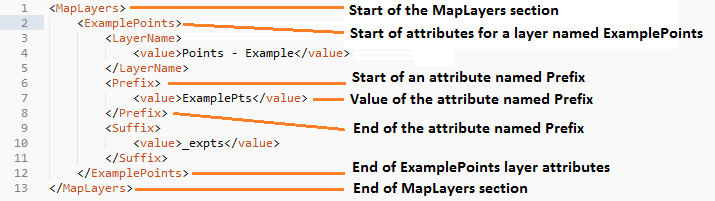
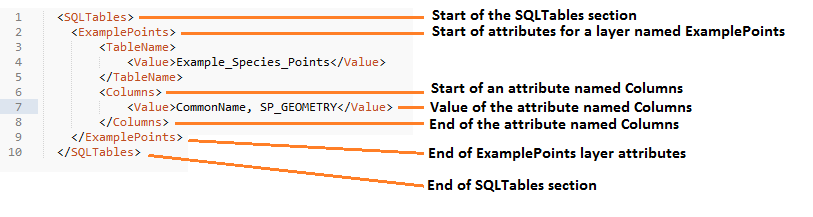
Some changes to setup document

diff --git a/setup/setup.rst b/setup/setup.rst
@@ -2,7 +2,7 @@
 Setting up the tool
 *******************
 
-Before the Data Searches Tool will function, it needs to be installed and configured. It is recommended that the configuration is carried out first, although the steps are interchangeable for the ArcGIS implementation. 
+Before the Data Extractor Tool will function, it needs to be installed and configured. It is recommended that the configuration is carried out first.
 
 .. index::
 	single: Configuring the tool
@@ -10,137 +10,111 @@ Before the Data Searches Tool will function, it needs to be installed and config
 Configuring the tool
 ====================
 
-The configuration is stored in an XML file called 'DataSearches.xml', and there are some differences in the contents of this file between the MapInfo and the ArcGIS implementations of the tool. Please ensure that you are using the correct XML file, examples of both of which can be found in the :doc:`appendix <../appendix/appendix>`. Attributes and settings are presented as nodes (beginning with a start node, e.g. ``<example>``, and finishing with an end note, e.g. ``<\example>``), with the value for the setting held between the ``<value>`` and ``<\value>`` tag. 
+The configuration is stored in an XML file called 'DataExtractor.xml', an example of which can be found in the :doc:`appendix <../appendix/appendix>`. Attributes and settings are presented as nodes (beginning with a start node, e.g. ``<example>``, and finishing with an end note, e.g. ``<\example>``), with the value for the setting held between the ``<value>`` and ``<\value>`` tag. 
 
 .. note:: 
-	The name of the configuration file must be 'DataSearches.xml'. The tool will not load if a different name is used.
+	The name of the configuration file must be 'DataExtractor.xml'. The tool will not load if a different name is used.
 
-The XML file can be edited in a text editor such as Notepad or Wordpad, or using a more feature rich XML editor such as as `Sublime Text <https://www.sublimetext.com/3>`_. The configuration file is split into two sections: a section containing general attributes of the searches, and a section that deals with the way each data layer should be handled. This structure is the same for both implementations of the tool. 
+The XML file can be edited in a text editor such as Notepad or Wordpad, or using a more feature rich XML editor such as as `Sublime Text <https://www.sublimetext.com/3>`_. The configuration file is split into three sections: a section containing general attributes of the searches, and a section that deals with the way each data layer should be handled, split into SQL Server layers and MapInfo layers. 
 
 .. note::
-	It is important that the structure of the file is maintained as it is presented in the :doc:`appendix <../appendix/appendix>`. Any changes to the structure may result in the Data Searches Tool not loading, or not working as expected.
+	It is important that the structure of the file is maintained as it is presented in the :doc:`appendix <../appendix/appendix>`. Any changes to the structure may result in the Data Extractor Tool not loading, or not working as expected.
 
 Once editing has been completed and the edits have been saved, it is recommended that the configuration file is opened using an internet browser such as Internet Explorer which will help highlight any editing errors – only if the structure of the file is valid will the whole file be displayed in the internet browser.
 
 .. note::
-	It is recommended that the configuration file is kept in a central (network) location, so that all data searches use the same setup. In case of the MapInfo implementation of the tool, it is essential that the configuration file is kept in the same folder as the compiled version of the tool.
+	It is recommended that the configuration file is kept in a central (network) location, so that all data searches use the same setup. Additionally, it is essential that the configuration file is kept in the same folder as the compiled version of the tool.
 
 .. index::
-	single: Setup for ArcGIS
+	single: Setting up the XML file
 
 
-Setup for ArcGIS
-----------------
+Setting up the XML file
+-----------------------
 
 .. index::
-	single: General attributes for ArcGIS
+	single: General attributes
 
 
 **General attributes**
 
-The first section of the configuration file deals with a series of general attributes for the Data Searches tool. These general nodes specify where files are kept, how output files should be named and other overall settings. Details on these attributes and their expected values are given below. The list follows the order within which the attributes are found in the configuration file. This version of the configuration details is valid for version 1.2 of the Data Searches Tool.
+The first section of the configuration file deals with a series of general attributes for the Data Extractor tool. These general nodes specify where files are kept, how output files should be named and other overall settings. Details on these attributes and their expected values are given below. The list follows the order within which the attributes are found in the configuration file. This version of the configuration details is valid for version 1.5.11 of the Data Extractor Tool.
 
-.. note::
-	The enquiry reference takes the form 'LERCName/Year/EnquiryNumber' (e.g. 'Example/2016/001'). Within the configuration file, it is possible to use all or parts of this reference for naming files and folders. The following options are available:
+_`LogFilePath` 	
+	The folder to be used for storing log files. This folder must already exist.
 
-	- ``%ref%`` uses the full enquiry reference.
-	- ``%shortref%`` uses the numeric part of the reference (e.g. '2016/001').
-	- ``%subref%`` uses the Enquiry Number (e.g. '001').
-	- ``%sitename%`` uses the name of the site (e.g. 'Example site').
+_`FileDSN`
+	The location of the file DSN which specifies the connection to the SQL database.
 
+_`DefaultPath`
+	The folder below which all partner folders will be created, and where extracts will be stored.
 
-_`Database` 	
-	The path to the Access database that contains the details of all search requests. This must be the full path including the ``.mdb`` extension. The database must have a table called 'Enquiries' that contains, at the very least, the search reference and the site name.
+_`DatabaseSchema`
+	The schema used in the SQL database (usually dbo).
 
-_`RefColumn`
-	The name of the column in the Enquiries table within the Access database that contains the search reference. The name must be given without any brackets. The search reference must follow the format 'LERCName/Year/EnquiryNumber'.
+_`TableListSQL`
+	The SQL statement that is used to return the list of SQL tables which should be included in the user interface for selection by the user.
 
-_`SiteColumn`
-	The name of the column in the Enquiries table within the Access database, that contains the site name. The name must ge given without any brackets.
-
-_`RepChar`
-	The character(s) used to replace any special characters in file or folder names. 'Special' characters are any of the following: ``\, %,$, :, *, /, ?, <, >, |, ~, £, .``. The replacement character can itself not be a special character.
-
-_`LayerFolder`
-	The folder where layer files (``.lyr``) are kept. These files are used to symbolise the GIS data layers that are exported during processing.
-
-_`SaveRootDir`
-	The folder within which all output folders will be created.
+_`PartnerTable`
+	The name of the partner GIS layer in SQL Server used to select the records. The tool expects a MapInfo table of the same name to be present in the map view, which can be added manually by connecting to the the `FileDSN`_ and adding the boundary dataset to the workspace.
  
-_`SaveFolder`
-	The name of the folder that will be created for each search. The keywords ``%ref%``, ``%shortref%``, ``%subref%``and ``%sitename%`` are allowed.
+_`PartnerColumn`
+	The column in the `PartnerTable`_ containing the partner name, which is passed to SQL Server by the tool to use as the partner's boundary for selecting the records.
 
-_`GISFolder`
-	The name of the folder where all data generated by the Data Searches Tool will be stored. This folder will be created in the `SaveFolder`_. The keywords ``%ref%``, ``%shortref%``, ``%subref%`` and ``%sitename%`` are allowed.
+_`ShortColumn`
+	The name of the column in the partner GIS layer containing the abbreviated name passed to SQL Server by the tool to use as the sub-folder name for the destination of extracted records. The subfolder is created in the `DefaultPath`_ during extraction if it does not already exist.
 
-_`LogFileName`
-	The name of the log file that will be created during processing. TThe keywords ``%ref%``, ``%shortref%``, ``%subref%``and ``%sitename%`` are allowed.
+_`NotesColumn`
+	The name of the column in the partner GIS layer containing any notes text relating to the partner.
 
-_`DefaultClearLogFile`
-	Yes/No attribute, defining whether the check box for 'Clear Log File?' on the interface should be set to checked (``yes``) or unchecked (``no``) when the form is opened.
+_`ActiveColumn`
+	The name of the column in the partner GIS layer containing the Y/N flag to indicate if the partner is currently active.  Only active partners will available for processing. The values in this column should be 'Y' or 'N'.
 
-_`DefaultBufferSize`
-	The default buffer size that will appear in the 'Buffer Size' text box when the form is opened.
+_`FormatColumn`
+	The name of the column in the partner GIS layer containing the GIS format required for the output records. The values in the column should be ``Shp``, ``Tab`` or ``Both``.
 
-_`BufferUnitOptions`
-	The options for buffer units that will be shown in the 'Buffer Unit' dropdown list. It is not recommended that these are changed. However, details of how any changes should be formatted are in the comments for this attribute within the XML file.
+_`ExportColumn`
+	The name of the column in the partner GIS layer indicating whether an export should also be created as a CSV file. The values in this column should be 'Y' or 'N'.
 
-_`DefaultBufferUnit`
-	The buffer unit that should be shown by default in the 'Buffer Unit' dropdown list. This attribute is the index number of the unit in the dropdown list, with 1 being the first option.
+_`FilesColumn`
+	The name of the column in the partner GIS layer indicating which map layers should be extracted for each partner. The entry in this column should be a comma-delimited list with no spaces, of the names of the layers (as given in the XML file [REF]) that should be included for each partner.
 
-_`BufferLayerName`
-	The name of the layer file (kept in the `LayerFolder`_) which will be used to symbolise the buffer layer. Must include the ``.lyr`` extension.
+_`TagsColumn`
+	The name of the column in the partner GIS layer indicating which survey tags, if any, should be included in the export. The survey tags should be a comma-delimited list with no spaces.
 
-_`SearchLayer`
-	The name of the data searches GIS layer in the interface. There may be either a single search layer (of either points, polygons or lines) of this name, or there may be multiple search layers present (e.g. one of each format) in which case their names should begin with the SearchLayer entry. See :numref:`figArcGISUI` for an example. In the case of this example, the entry for this node was ``SearchSites`` and the `SearchLayerExtensions`_ entry (see next attribute) was ``_point;_poly;_line``. 
+_`SelectTypeOptions`
+	The option list for the selection types, to be included in the 'Selection Type' dropdown box on the interface. This attribute should not be changed. The options are ``Spatial Only`` (records are purely selected on whether they are inside or outside the partner boundary), ``Survey tags only`` (records are purely selected on the survey tags included in the `TagsColumn`_), and ``Spatial and Survey Tags``, where both a spatial intersection and any records with the relevant survey tags are included in the extraction.
 
-_`SearchLayerExtensions`
-	If multiple search layers are used, this node should contain a list of the extensions for each layer, delimited by semicolons (e.g. in the example used above, the entry was ``_point;_poly;_line``). If only a single layer is used this attribute should be left blank.
+_`DefaultSelectType`
+	The buffer unit that should be shown by default in the 'Selection Type' dropdown list. This attribute is the index number of the selection type options in the dropdown list, with 1 being the first option.
 
-_`SearchColumn`
-	The name of the column in the search layer(s) that holds the search reference.
+_`RecMax`
+	The maximum number of records what will be extracted in any one partner extract.
 
-_`AggregateColumns`
-	A list, delimited by semicolons, of the fields in the search layer that should be used to dissolve the buffer during processing. This attribute can be used in cases where the search sites are multi-part features which may create a number of overlapping buffers rather than one continuous one.
+_`DefaultZip`
+	The default value for zipping the extract files. This attribute should be set to ``Yes`` or ``No``.
 
-_`AddSelectedLayersOptions`
-	The options that should be shown in the 'Add Selected layers to Map' dropdown list. These options should not be changed.
+_`ConfidentialClause`
+	The SQL criteria for excluding any confidential surveys.
 
-_`DefaultAddSelectedLayers`
-	The default option for adding the selected layers that should be shown when the form opens. This attribute is the index number of the item in the 'Add Selected Layers to Map' dropdown list, with 1 being the first option. If no value is entered the list box will be hidden and no layers will be added to the map.
+_`DefaultConfidential`
+	Yes/No attribute, defining whether the check box for 'Extract confidential surveys?' will be set to checked (``Yes``) or unchecked (``No``) when the form is opened. 
 
-_`OverwriteLabelOptions`
-	The options that should be shown in the 'Overwrite Map Labels' dropdown list. These options should not be changed.
+_`UTPath`
+	The path to the Universal Translator program. The path will usually be ``C:\Program Files (x86)\MapInfo\Professional\UT`` (64 bit operating system) or ``C:\Program Files\MapInfo\Professional\UT`` (32 bit operating system) but it is dependent on the location of the MapInfo installation directory.
 
-_`DefaultOverwriteLabels`
-	The default option for the 'Overwrite Map Labels' dropdown that should be shown when the form opens. This attribute is the index number of the item in the dropdown list, with 1 being the first option. If no value is entered the list box will be hidden and labels will not be overwritten.
+_`UTCommand`
+	he command to run the Universal Translator program. Unless the program has been renamed, this should be set to ``Imut.exe``.
 
 _`CombinedSitesTableOptions`
 	The options that should be shown in the 'Create Combined Sites Table' dropdown list. These options should not be changed.
 
-_`DefaultCombinedSitesTable`
-	The default option for the 'Create Combined Sites Table' dropdown that should be shown when the form opens. This attribute is the index number of the item in the dropdown list, with 1 being the first option. If no value is entered the list box will be hidden and no combined sites table will be created.
-
-_`CombinedSitesTable`
-	This section defines the combined sites table. It has the following entries:
-
-	Columns
-		A comma-delimited list of the column headings that the combined sites table should have.
-	Suffix
-		An entry of what the suffix of the file name should be. The name of the combined sites table is given by ``subref_Suffix.Format``, e.g. ``001_sites.csv`` where the suffix is ``sites`` and the format is ``csv``. The use of the ``subref`` keyword is predefined in this case and cannot be changed.
-	Format
-		The format that the combined sites table should have. Choose from ``csv`` or ``txt``.
-
-
 .. index::
-	single: Map layer attributes for ArcGIS
+	single: SQL table attributes
 
-**Map layer attributes**
+**SQL table attributes**
 
-All map layer attributes are found within the ``<MapLayers>`` node. For each data layer that can be included in the searches, a new child node is created that has the name of the layer (e.g. ``<SSSIs>``). This name is name of the layer as it will be shown in the tool menu, and can be different from the layer name as it is shown in the ArcGIS table of contents (which will be set in a subsequent child node). A simple example of a map layer definition with limited attributes is shown in :numref:`figArcGISUI`. 
-
-.. note::
-	If you wish to display spaces in any layer names in the tool menu use an underscore (``_``) for each space in the node name for the layer. XML does not allow spaces in node names, but the tool will translate these underscores into spaces when the form is opened.
+The attributes for any SQL tables to be included in the Data Extractor Tool menu is found within the ``<SQLTables>`` node. For each data layer that can be included in the searches, a new child node is created that has the name of the layer (e.g. ``<AllSpecies>``). This is the same name as should be used in the list of map layers in the `FilesColumn`_ in the partner boundary layer. The actual name of the layer as it is shown in the user interface may be different and is kept in a subsequent child node. A simple example of an SQL layer definition with limited attributes is shown in :numref:`figXMLExample`.
 
 .. _figXMLExample:
 
@@ -149,103 +123,45 @@ All map layer attributes are found within the ``<MapLayers>`` node. For each dat
 
 	A simplified example of how data layer attributes are stored in the configuration file. 
 
-The attributes that are required for each map layer are as follows:
+The attributes that are required for each SQL table are as follows:
 
-_`LayerName`
-	The name of the layer as it is shown in the GIS interface. Characters that cannot be included in the layer name are ``/`` and ``&`` as they will cause the tool to fail. The characters ``-``, ``_``, ``+`` and ``\`` are permitted.
-
-_`Prefix`
-	The prefix will be used to start the name of any GIS layer that is exported from this data layer during the search. The naming followed for exported GIS layers is ``Prefix_subref.shp``, e.g. ``SSSIs_001.shp``. The use of the ``subref`` keyword in this case is predefined and cannot be changed.
-
-_`Suffix`
-	The suffix will be used to finish the name of any tabular file that is exported from this data layer during the search. The naming followed for exported tabular data is ``subref_Suffix.Format``, e.g. ``0001_SSSIs.csv``. The use of the ``subref`` keyword in this case is predefined and cannot be changed.
+_`TableName`
+	The name of the layer as it is held in the SQL database. 
 
 _`Columns`
-	A comma-separated list of columns that should be included in the tabular data exported from this data layer during the search. The column names are case sensitive and should match the column names in the source layer. If results from any aggregate functions are to be included, they should follow the naming convention that ArcGIS employs for statistics fields, as follows:
+	A comma-separated list of columns that should be included in the data exported from this data layer during the extraction. The column names are case sensitive and should match the column names in the source table. 
 
-	- Column names are up to 10 characters long and are case sensitive.
-	- Statistics column names are made up of the statistic requested (e.g. COUNT, SUM, MEAN, FIRST, etc.), the underscore character (``_``), and the name of the column to which the statistic applies (e.g. ``COUNT_Year``). Names longer than 10 characters are abbreviated. 
-	- If, due to abbreviation, two output columns would be given the same name, ArcGIS will automatically add a count of ``_1`` to the column name. Where the column name is nine or ten characters long, it will replace the last one or two characters of the second column with ``_1``, always ensuring the length of the column name does not exceed ten characters. 
-	- Numbering for any subsequent columns with the same name will follow this format adding one to each column number until this number reaches 9. Any subsequent columns will be numbered ``_10``, ``_11`` etc, so adding or replacing up to three rather than two characters in the column name. Again in all cases the new column name will be ten characters long or less.
+_`Clauses`
+	Any SQL clause that should be used to select the data from this table for export. This clause could, for example, ensure records are only included that have been entered after a certain date, are verified or are presence (not absence) records.
 
-.. tip::
-	If you are unsure what the output column names will be from an aggregation operation, run the Dissolve tool (this resides in the ArcGIS toolbox, under Data Management Tools => Generalisation) on a sample of your data, and include the statistics columns with the relevant statistic types as you intend to use them in the Data Searches tool. The output will contain the column names as they will be generated by the Data Searches tool, since it uses the same process.
+_`Symbology`
+	The symbology definition for extracts from this table. Multiple symbols can be specified for use in the legend using clauses. Each symbol is specified between ``<Symbol>`` and ``</Symbol>`` tags and is defined by the following child nodes:
 
-
-_`GroupColumns`
-	A comma-separated list of the name(s) of any column(s) that should be used for grouping the outputs from the search on this layer. The column names are case sensitive and should match the column names in the source layer.
-
-_`StatisticsColumns`
-	If `GroupColumns`_ are specified, statistics may be requested from any columns in the input layer. The format of this attribute is as follows: ``ColumnName1;STATISTIC$ColumnName2;STATISTIC``, e.g. ``Area;SUM$Year;COUNT``. Note that in order to be included in the tabular output, the output columns for these statistics must be included in the `Columns`_ list as described above.
-
-_`OrderColumns`
-	A comma-separated list of columns by which the results should be ordered in the tabular output for this layer. The order of this list overrides any order in the `GroupColumns`_ attribute.
-
-_`Criteria`
-	Selection criteria that should be used on the data layer during the search. These can be used to, for example, suppress confidential records, report on particular species only, or only include records after a certain date. The criteria take the form ``ColumnName Operand Value`` and may include AND and OR statements and similar. String values should be enclosed in single quotes. An example might be ``Name = 'myName' AND Year > 2010``. Only records that match the criteria will be exported. 
-
-_`IncludeDistance`
-	A Yes/No attribute that defines whether the distance of each feature in the data layer to the search location will be measured during the process. The output column will be called 'Distance' and will be included automatically in the tabular output.
-
-_`IncludeRadius`
-	A Yes/No attribute that defines whether the buffer radius that was used will be added to the tabular ouput during the process. The output column will be called 'Radius' and will be included automatically in the tabular output.
-
-_`KeyColumn`
-	The name of the column containing the unique identifier for this data layer.
-
-_`Format`
-	The format of tabular output exported from this data layer during a search. Options are ``csv`` and ``txt``. If ``txt`` is selected as a format no column names will be included in the output. They are included for ``csv`` output.
-
-_`KeepLayer`
-	A Yes/No attribute that defines whether a GIS data layer should be kept of the features selected in this map layer during the search. If ``no`` is entered all geographical data generated for this data layer during the process will be deleted. If ``yes`` is entered, a data layer will be created that follows the naming convention ``Prefix_subref.shp``. The use of the ``subref`` keyword in this case is predefined and cannot be changed. 
-
-.. note:: 
-
-	If no features are selected in a data layer during a search, no new data layer will be created even if the `KeepLayer`_ attribute is set to ``yes``.
-
-_`LayerFileName`
-	The name of the layer file (``.lyr``) that should be used to symbolise any GIS output from this data layer. The layer file should be present in the `LayerFolder`_ specified in the general attributes. This name is case sensitive. If no value is entered the system will use the default symbology assigned during processing.
-
-_`OverwriteLabels`
-	A Yes/No attribute that specifies whether the labels in this data layer can be overwritten for any GIS output. If the attribute is set to ``no``, labels will not be overwritten even if requested by the user through the 'Overwrite Map Labels' options on the form.
-
-_`LabelColumn`
-	The name of the column in this data layer that contains the labels. If this entry has a column name that does not exist in the data layer, the tool will create this label column when necessary even if `OverwriteLabels`_ is set to ``no``. In this case, the features will be automatically numbered and numbering will follow the rule that is selected by the user through the 'Overwrite Map Labels' options on the form. If this attribute is left blank, no labels will be created or displayed for this layer even when requested by the user. 
-
-_`LabelClause`
-	An ArcGIS clause that defines the format, font type, font size and colour of the labels for this layer. The format of this clause is as follows: ``Font:FontName$Size:FontSize$Red:PercentRed$Green:PercentGreen$Blue:PercentBlue$Type:PlacementType``, where the ``Type`` is the ArcGIS label placement type with the following options:  NoRestrictions, OnePerName, OnePerPart or OnePerShape. An example would be ``Font:Arial$Size:10$Red:0$Green:0$Blue:0$Type:NoRestrictions``. If no clause is filled in these default settings are applied (Arial, size 10, black, each polygon in a multi-part polygon is labelled).
-
-_`CombinedSitesColumns`
-	A comma-separated list of column names to be included in the combined sites table. If this entry is left blank the data layer will not be included in the combined sites table. A number of special cases apply to this attribute:
-
-	- Any entry surrounded by double quotes (e.g. ``"Protected sites"``) will be included in the combined sites table 'as is'. So, in the case of this example, each row that is added to the combined sites table from this data layer will have the entry 'Protected sites' in one of the columns. This feature is useful in distinguishing which data layer each row in the combined sites table originates from. 
-
-	- If `IncludeDistance`_ is set to ``yes``, the keyword ``Distance`` can be included as a column name. The tool will automatically include the calculated distance of each feature to the point of interest in the combined sites table. Similarly the keyword ``Radius`` can be included if `IncludeRadius`_ is set to ``yes``. This will then add the buffer radius that was used for each entry in the table.
-
-.. note:: 
-
-	The column headings of the combined sites table follow the 'Columns' entry under the `CombinedSitesTable`_ attribute in the general attributes. It is important to ensure that the CombinedSitesColumns are given in the same order as expected by this attribute.
-
-_`CombinedSitesGroupColumns`
-	A comma-separated list of column names by which the output from this data layer should be grouped before inclusion in the combined sites table. 
-
-_`CombinedSitesStatisticsColumns`
-	If any aggregation is applied for this data layer (through the `CombinedSitesGroupColumns`_ attribute), statistics may be included in the combined sites table in the same way as described for `StatisticsColumns`_.
-
-_`CombinedSitesOrderByColumns`
-	A comma-separated list of column names by which the output of this layer should be ordered before inclusion in the combined sites table. This entry overrides any ordering created by the `CombinedSitesGroupColumns`_ attribute.
-
-.. note::
-
-	All entries in the configuration file are **case sensitive**. Most common errors in the setting up of the tool are caused by using the incorrect case for entries.
+	Clause
+		The clause that defines the records which will be assigned this symbol.
+	Object
+		The object that is symbolised using this symbol (e.g. ``Point``)
+	Type
+		The type of symbol to be used, usually 'Symbol'
+	Style
+		The style of the symbol to be used. In order to find the syntax for this attribute, set the desired symbol through Options => Symbol style, then write this statement in the MapBasic window and hit enter: ``Print CurrentSymbol()``. Then the full symbol definition (e.g. ``137,255,12, "MapInfo Miscellaneous",256,0``) can be used in this attribute.
 
 
 .. index::
-	single: Setup for MapInfo
+	single: Map layer attributes
 
+**Map layer attributes**
 
-Setup for MapInfo
------------------
+All map layer attributes are found within the ``<MapTables>`` node. For each data layer that can be included in the searches, a new child node is created that has the name of the layer (e.g. ``<SSSIs>``), in the same way as this is done for the SQL tables. The attributes that are required for each map layer are as follows:
+
+_`TableName`
+	The name of the table as it is shown in the MapInfo user interface.
+
+_`Columns`
+	A comma-separated list of columns that should be included in the data exported from this data layer during the extraction. The column names are case sensitive and should match the column names in the source table. 
+
+Any exports from map layers will use the same symbology as the source layer.
+
 
 .. index::
 	single: Installing the tool
